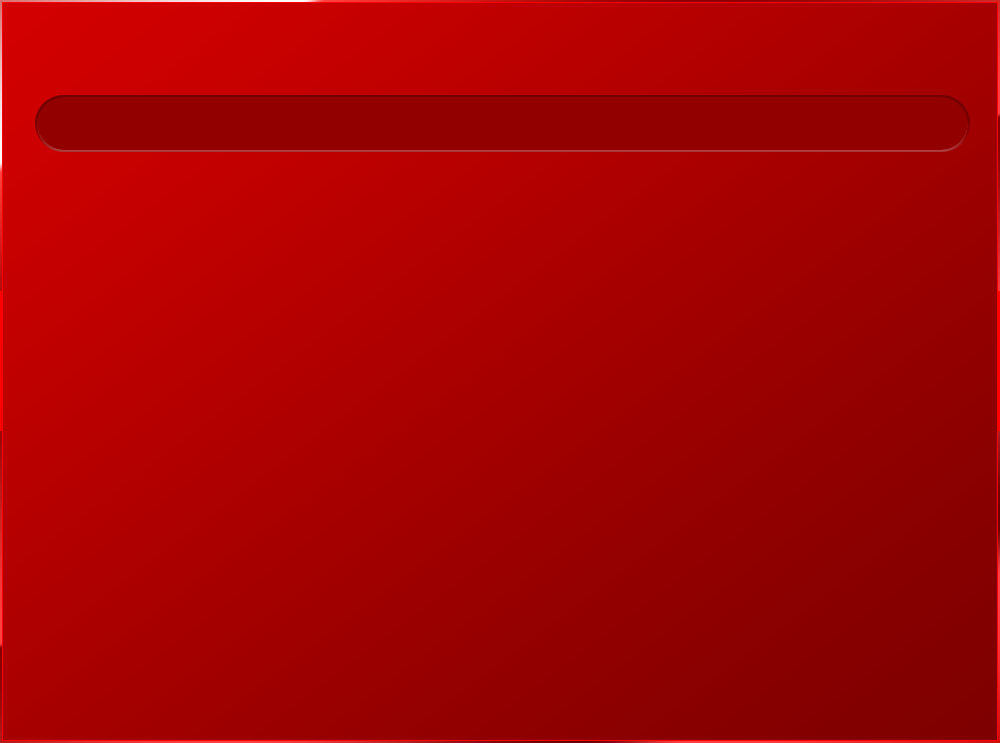
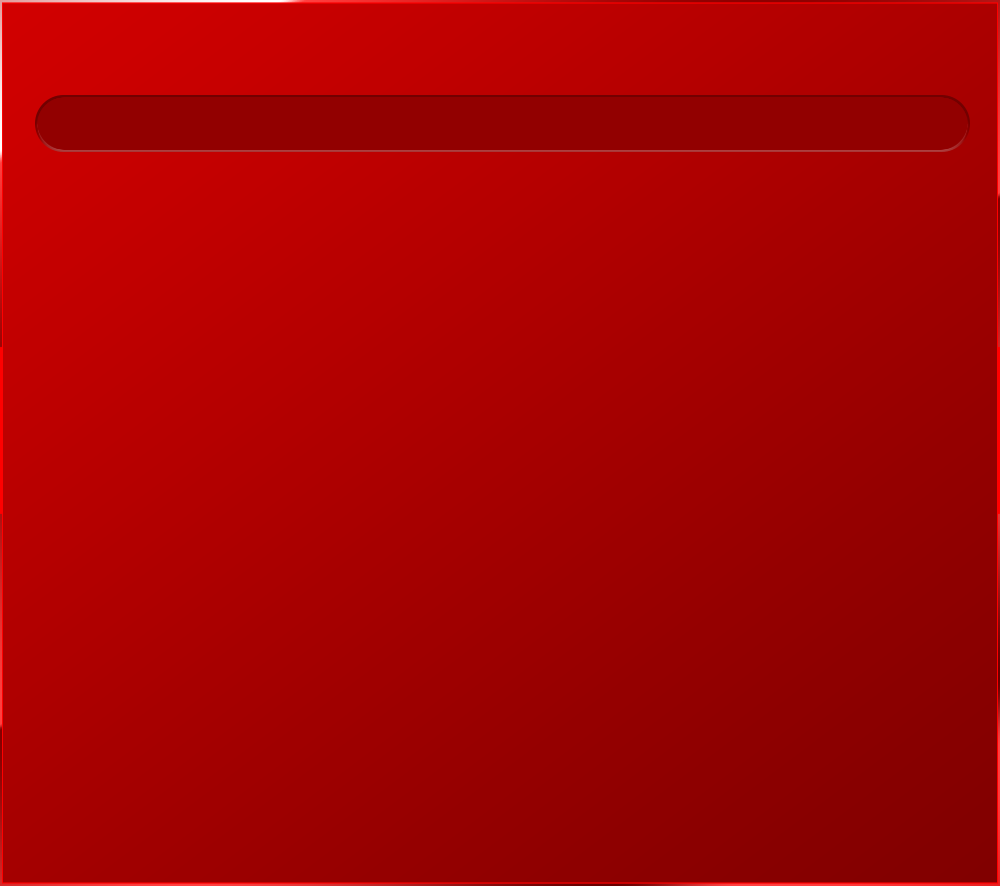
SASAKI-145 ［マンガLP ］4DXマンガLPページ姶良劇場追加

diff --git a/lp/4dx/index.html b/lp/4dx/index.html
@@ -82,6 +82,11 @@ src="https://www.facebook.com/tr?id=233509890323398&ev=PageView&noscript=1"
                         </li>
                         <li class="last"><a href="http://www.cinemasunshine.co.jp/theater/yamatokoriyama/"><img src="/lp/4dx/images/bottan_yamato.png" alt="シネマサンシャイン大和郡山"></a></li>
                     </ul>
+                     <ul>
+                        <li>
+                            <a><img src="/lp/4dx/images/bottan_aira.png" alt="シネマサンシャイン姶良"></a>
+                        </li>
+                    </ul>
                 </div>
             </div>
             <div class="lineup">

diff --git a/lp/4dx/css/style.css b/lp/4dx/css/style.css
@@ -72,7 +72,7 @@ img {
 
 .osusume {
     width: 1000px;
-    height: 744px;
+    height: 886px;
     margin: 0 auto;
     background-image:url(/lp/4dx/images/bg_02.png);
     margin-bottom: 76px;
@@ -148,6 +148,7 @@ iframe {
 
 .osusume ul {
     overflow: hidden;
+    margin-bottom: 10px;
 }
 
 .osusume li {
